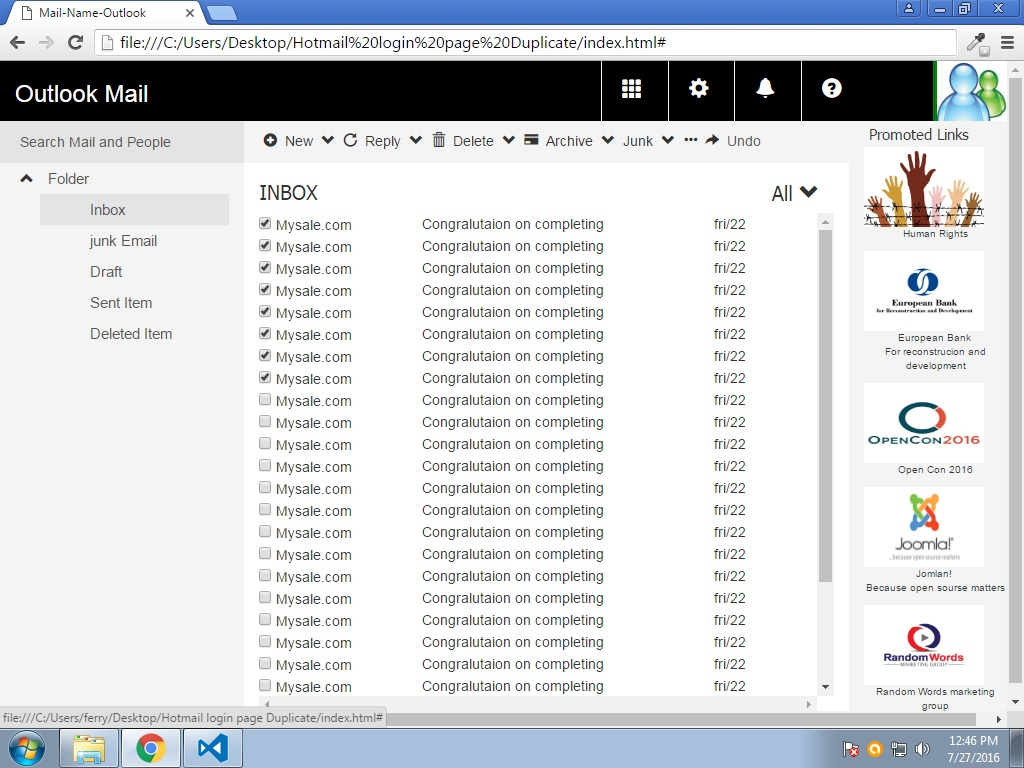
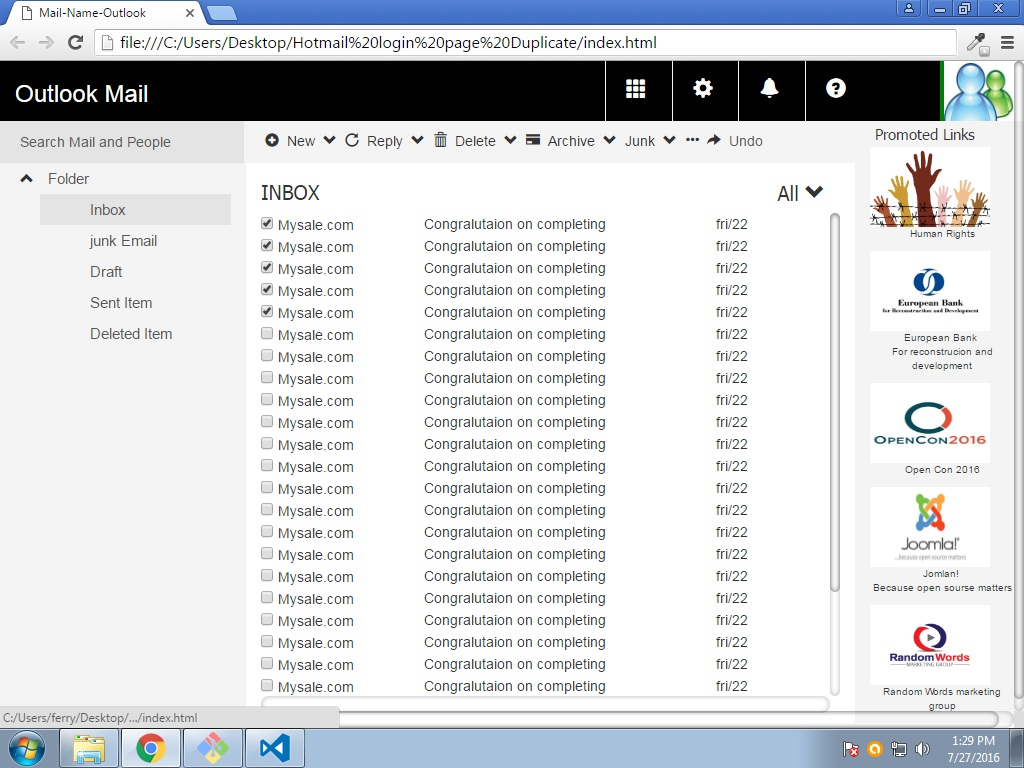
edit scroll bar design

diff --git a/cssforhotmail.css b/cssforhotmail.css
@@ -176,3 +176,17 @@ a :hover{
     top: 0px;
     border-left: 4px solid green;
 }
+
+::-webkit-scrollbar{
+    width:10px;
+}
+
+::-webkit-scrollbar-track{
+    -webkit-box-shadow: inset 0 0 6px rgba(0,0,0,0.3);
+    border-radius: 10px;
+}
+
+::-webkit-scrollbar-thumb {
+    border-radius: 10px;
+    -webkit-box-shadow: inset 0 0 6px rgba(0,0,0,0.5); 
+}
